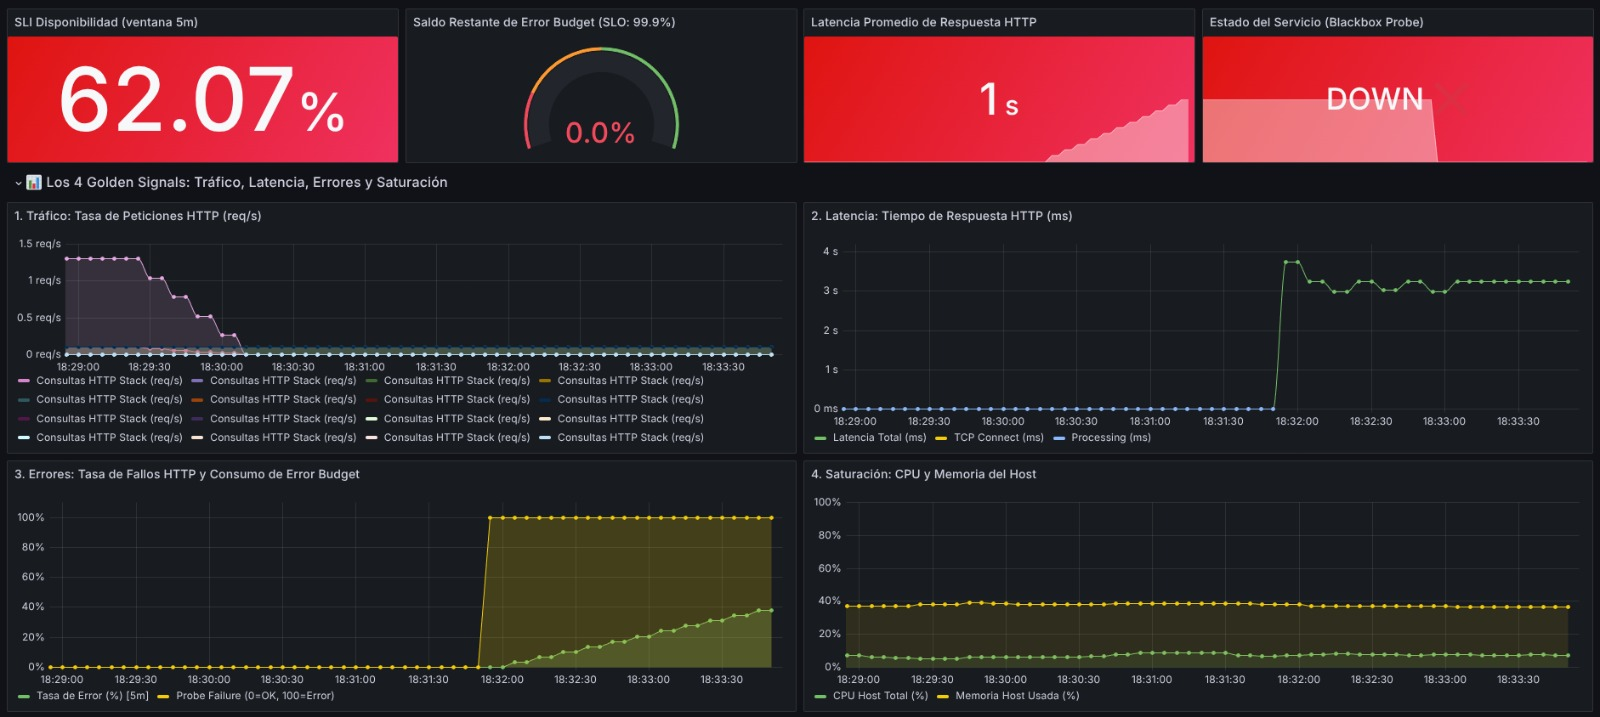
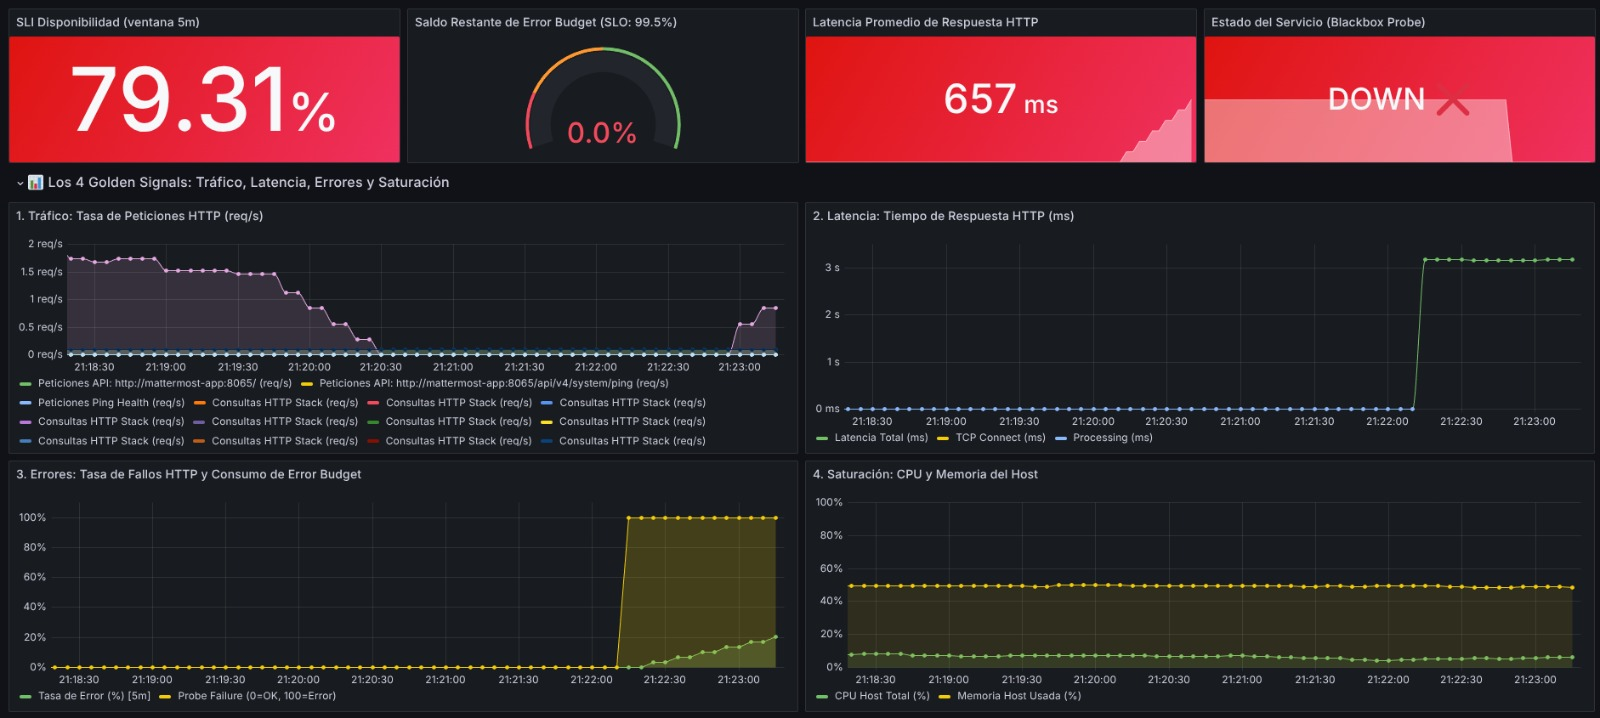
Refactor code structure for improved readability and maintainability

diff --git a/observability/INFORME_ENTREGABLE_3.md b/observability/INFORME_ENTREGABLE_3.md
@@ -127,25 +127,29 @@ $$\text{Burn Rate} = \frac{\text{Tasa de Error Actual}}{\text{Tasa de Error Perm
 Define las reglas de juego y acuerdos operativos entre el equipo de Desarrollo y Operaciones según el saldo de presupuesto restante:
 
 ```text
-+-----------------------------------------------------------------------------------+
-|                           POLÍTICA DE ERROR BUDGET                                |
-+------------------+---------------------+------------------------------------------+
-| Saldo Restante   | Burn Rate Asociado  | Acciones Operativas y Acuerdos           |
-+------------------+---------------------+------------------------------------------+
-| 100% - 50%       | <= 1.0x (Normal)    | Estado Óptimo: Despliegues continuos     |
-| (Zona Verde)     |                     | permitidos sin restricciones adicionales.|
-+------------------+---------------------+------------------------------------------+
-| 50% - 20%        | 1.0x - 6.0x         | Estado de Advertencia: Los despliegues   |
-| (Zona Amarilla)  |                     | requieren aprobación y revisión de tests.|
-+------------------+---------------------+------------------------------------------+
-| 20% - 1%         | > 6.0x (Acelerado)  | Pre-Freeze: Se suspenden despliegues de  |
-| (Zona Naranja)   |                     | características no esenciales. El 50% de |
-|                  |                     | capacidad se orienta a estabilidad.      |
-+------------------+---------------------+------------------------------------------+
-| <= 0%            | > 14.4x (Crítico)   | FEATURE FREEZE TOTAL: Se detienen todos  |
-| (Zona Roja)      |                     | los releases de producto. El equipo se   |
-|                  |                     | dedica 100% a confiabilidad y bugs.      |
-+------------------+---------------------+------------------------------------------+
++-------------------------------------------------------------------------+
+|                        POLÍTICA DE ERROR BUDGET                         |
++----------------+--------------------+-----------------------------------+
+| Saldo Restante | Burn Rate Asociado | Acciones Operativas y Acuerdos    |
++----------------+--------------------+-----------------------------------+
+| 100% - 50%     | <= 1.0x (Normal)   | Estado Óptimo: Despliegues        |
+| (Zona Verde)   |                    | continuos permitidos sin          |
+|                |                    | restricciones extras.             |
++----------------+--------------------+-----------------------------------+
+| 50% - 20%      | 1.0x - 6.0x        | Estado de Advertencia:            |
+| (Zona Amarilla)|                    | Despliegues requieren aprobación  |
+|                |                    | y revisión de tests.              |
++----------------+--------------------+-----------------------------------+
+| 20% - 1%       | > 6.0x (Acelerado) | Pre-Freeze: Se suspenden          |
+| (Zona Naranja) |                    | despliegues de características no |
+|                |                    | esenciales. El 50% de capacidad   |
+|                |                    | se orienta a estabilidad.         |
++----------------+--------------------+-----------------------------------+
+| <= 0%          | > 14.4x (Crítico)  | FEATURE FREEZE TOTAL: Se detienen |
+| (Zona Roja)    |                    | todos los releases de producto.   |
+|                |                    | El equipo se dedica 100% a la     |
+|                |                    | confiabilidad y bugs.             |
++----------------+--------------------+-----------------------------------+
 ```
 
 ---
@@ -159,70 +163,67 @@ La solución implementa una arquitectura desacoplada y modular desplegada en con
 #### Diagrama de Arquitectura de Observabilidad
 
 ```text
-===================================================================================================
-                                      ARQUITECTURA DE OBSERVABILIDAD SRE
-===================================================================================================
+===========================================================================
+                    ARQUITECTURA DE OBSERVABILIDAD SRE
+===========================================================================
 
  [ Clientes / Usuarios ]       [ Scripts de Prueba SRE ]
             │                              │
-            │ HTTP :8065                   │ HTTP / API Probes (:8065)
+            │ HTTP :8065                   │ HTTP/API Probes
             ▼                              ▼
  ┌───────────────────────────────────────────────────────────────┐
- │                   mattermost-app (Core Engine)                │
- │                 - Puerto HTTP: 8065 | Metrics: 8067           │
+ │                 mattermost-app (Core Engine)                  │
+ │                - Ptos: HTTP 8065 | Metrics 8067               │
  └──────────────┬────────────────────────────────┬───────────────┘
                 │                                │
-                │ SQL :5432                      │ HTTP GET /api/v4/system/ping
-                ▼                                ▼
+                │ SQL :5432                      │ GET /api/v4/
+                ▼                                ▼ system/ping
  ┌──────────────────────────────┐ ┌──────────────────────────────┐
  │        mattermost-db         │ │     mattermost-blackbox      │
- │     (PostgreSQL 15 DB)       │ │     (Blackbox Exporter)      │
- │        Puerto: 5432          │ │     Puerto Host: 9115        │
+ │      (PostgreSQL 15 DB)      │ │     (Blackbox Exporter)      │
+ │         Puerto: 5432         │ │      Puerto Host: 9115       │
  └──────────────┬───────────────┘ └──────────────┬───────────────┘
                 │                                │
                 │ Scrape SQL                     │ Scrape /probe
                 ▼                                │
  ┌──────────────────────────────┐                │
  │ mattermost-postgres-exporter │                │
- │     (Postgres Exporter)      │                │
- │      Puerto Host: 9187       │                │
+ │      (Postgres Exporter)     │                │
+ │       Puerto Host: 9187      │                │
  └──────────────┬───────────────┘                │
                 │                                │
-                │                                │
  ┌──────────────┴───────────────┐                │
- │    mattermost-node-exporter  │                │
- │     (Host Hardware Telemetry)│                │
+ │   mattermost-node-exporter   │                │
+ │  (Host Hardware Telemetry)   │                │
  │      Puerto Host: 9100       │                │
  └──────────────┬───────────────┘                │
                 │                                │
  ┌──────────────┴───────────────┐                │
  │     mattermost-cadvisor      │                │
- │     (cGroup Container Stats) │                │
- │      Puerto Host: 8085       │                │
+ │    (cGroup Container Stats)  │                │
+ │       Puerto Host: 8085      │                │
  └──────────────┬───────────────┘                │
                 │                                │
                 │  Scrape HTTP Metrics (:9090)   │
-                └────────────────► ┬ ◄───────────┘
-                                   │
-                                   ▼
-                 ┌──────────────────────────────────┐
-                 │      mattermost-prometheus       │
-                 │      (Prometheus Server :9090)   │
-                 │  - TSDB Storage Engine           │
-                 │  - Evaluador de Reglas SLI/SLO   │
-                 │  - Alertas Multi-Burn Rate       │
-                 └─────────────────┬────────────────┘
-                                   │
-                                   │ Consultas PromQL (:3000)
-                                   ▼
-                 ┌──────────────────────────────────┐
-                 │       mattermost-grafana         │
-                 │       (Grafana Server :3000)     │
-                 │  - Dashboard 4 Golden Signals    │
-                 │  - Visualizador de SLIs / SLOs   │
-                 │  - Saldo en Vivo de Error Budget │
-                 └──────────────────────────────────┘
-===================================================================================================
+                └───────────────► ┬ ◄────────────┘
+                                  │
+                                  ▼
+                ┌─────────────────────────────────┐
+                │      mattermost-prometheus      │
+                │    (Prometheus Server :9090)    │
+                │  - TSDB Storage Engine          │
+                │  - Reglas SLI/SLO y Alertas     │
+                └───────────────┬─────────────────┘
+                                │
+                                │ Consultas PromQL
+                                ▼
+                ┌─────────────────────────────────┐
+                │       mattermost-grafana        │
+                │      (Grafana Server :3000)     │
+                │  - Dashboard Golden Signals     │
+                │  - Visualizador Error Budget    │
+                └─────────────────────────────────┘
+===========================================================================
 ```
 
 #### Componentes de la Pila y Distribución de Puertos
@@ -482,35 +483,35 @@ En cumplimiento de los requerimientos de entrega, todos los manifiestos de infra
 
 ```text
 observability/
-├── INFORME_ENTREGABLE_3.md                            # Informe técnico consolidado de la entrega
-├── docker-compose.monitoring.yml                      # Stack de Prometheus, Grafana, cAdvisor, Exporters
+├── INFORME_ENTREGABLE_3.md                  # Documentación técnica SRE
+├── docker-compose.monitoring.yml            # Stack de observabilidad
 ├── blackbox/
-│   └── config.yml                                     # Módulos de sondeo HTTP y TCP para Blackbox Exporter
-├── imagenes/                                          # Evidencias visuales de pruebas de carga e incidentes
-│   ├── evidencia-generar-carga-nominal.jpeg           # Terminal: Generación de tráfico nominal
-│   ├── evidencia-grafana-carga-nominal.png            # Grafana: Tablero bajo operación nominal
-│   ├── evidencia-service-down-terminal.jpeg           # Terminal: Simulación caída de Mattermost
-│   ├── evidencia-service-down-grafana.jpeg            # Grafana: Impacto de caída del servicio
-│   ├── evidencia-service-down-prometheus.png          # Prometheus: Alerta ServiceDown y BurnRate FIRING
-│   ├── evidencia-database-down-terminal.jpeg          # Terminal: Simulación caída de PostgreSQL
-│   ├── evidencia-database-down-grafana.jpeg           # Grafana: Impacto de caída de base de datos
-│   ├── evidencia-database-down-prometheus.jpeg        # Prometheus: Alerta DatabaseDown FIRING
-│   ├── evidencia-cpu-stress-terminal.jpeg             # Terminal: Simulación estrés de CPU
-│   └── evidencia-cpu-stress-grafana.jpeg              # Grafana: Saturación de CPU en tiempo real
+│   └── config.yml                           # Probes de red (HTTP/TCP)
+├── imagenes/                                # Evidencia de evidencia
+│   ├── evidencia-generar-carga-nominal.jpeg
+│   ├── evidencia-grafana-carga-nominal.png
+│   ├── evidencia-service-down-terminal.jpeg
+│   ├── evidencia-service-down-grafana.jpeg
+│   ├── evidencia-service-down-prometheus.png
+│   ├── evidencia-database-down-terminal.jpeg
+│   ├── evidencia-database-down-grafana.jpeg
+│   ├── evidencia-database-down-prometheus.jpeg
+│   ├── evidencia-cpu-stress-terminal.jpeg
+│   └── evidencia-cpu-stress-grafana.jpeg
 ├── prometheus/
-│   ├── prometheus.yml                                 # Configuración global, timeouts y scrape jobs
+│   ├── prometheus.yml                       # Configuración y targets (Jobs)
 │   └── rules/
-│       ├── sli_slo_rules.yml                          # Recording rules: SLIs, Error Budget y Saturación
-│       └── burn_rate_alerts.yml                       # Alertas SRE Multi-Burn Rate y de infraestructura
+│       ├── sli_slo_rules.yml                # Políticas SLI y Error Budget
+│       └── burn_rate_alerts.yml             # Alertas SRE Multi-Burn Rate
 ├── grafana/
 │   ├── provisioning/
-│   │   ├── datasources/datasource.yml                 # IaC: Configuración automática del datasource Prometheus
-│   │   └── dashboards/dashboards.yml                  # IaC: Aprovisionamiento de dashboards JSON
+│   │   ├── datasources/datasource.yml       # IaC: Datasource Prometheus
+│   │   └── dashboards/dashboards.yml        # IaC: Auto-aprovisionamiento
 │   └── dashboards/
-│       └── mattermost-sre-golden-signals.json         # Dashboard oficial con 4 Golden Signals y SLOs
+│       └── mattermost-sre-golden-signals.json # Dashboard Golden Signals
 ├── runbooks/
-│   └── incident-response-runbook.md                   # Manual procedimental de respuesta a incidentes
+│   └── incident-response-runbook.md         # Playbook de incidentes (SEV)
 └── scripts/
-    ├── traffic_generator.sh                           # Generador de tráfico nominal concurrente
-    └── simulate_incident.sh                           # Inyector de fallas (service-down, db-down, high-load)
+    ├── traffic_generator.sh                 # Automatización de carga HTTP
+    └── simulate_incident.sh                 # Scripts de Chaos Engineering
 ```
